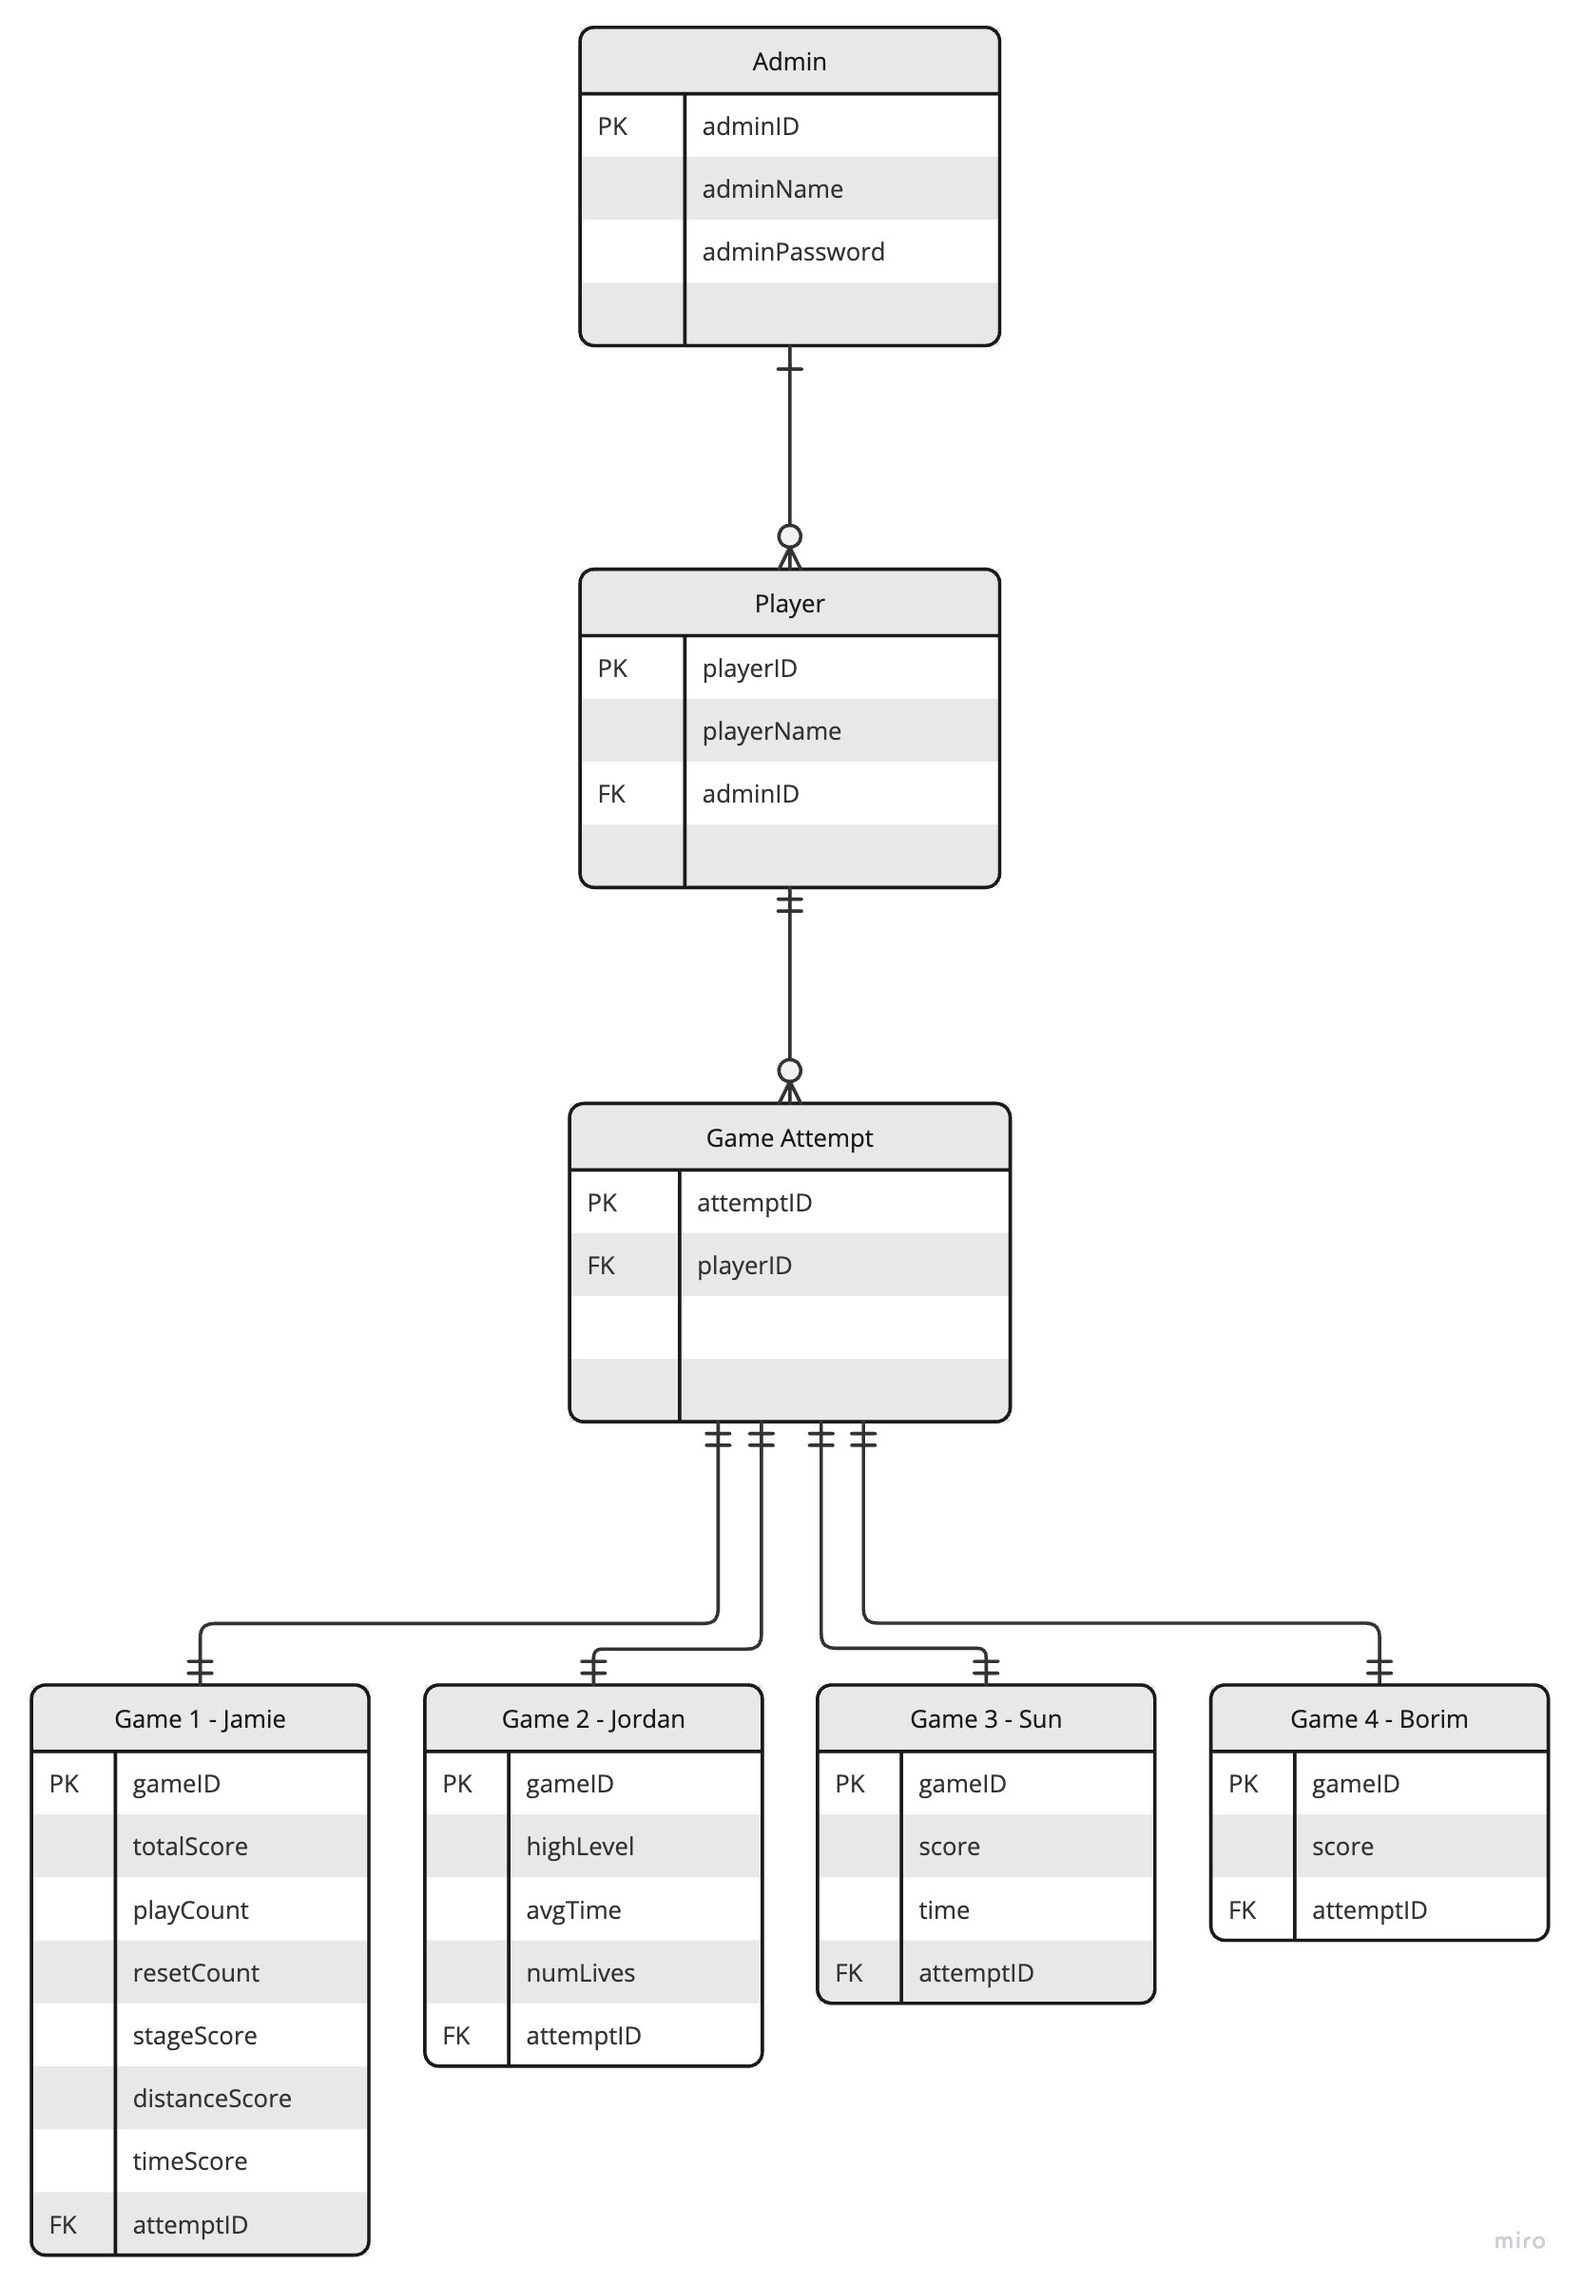
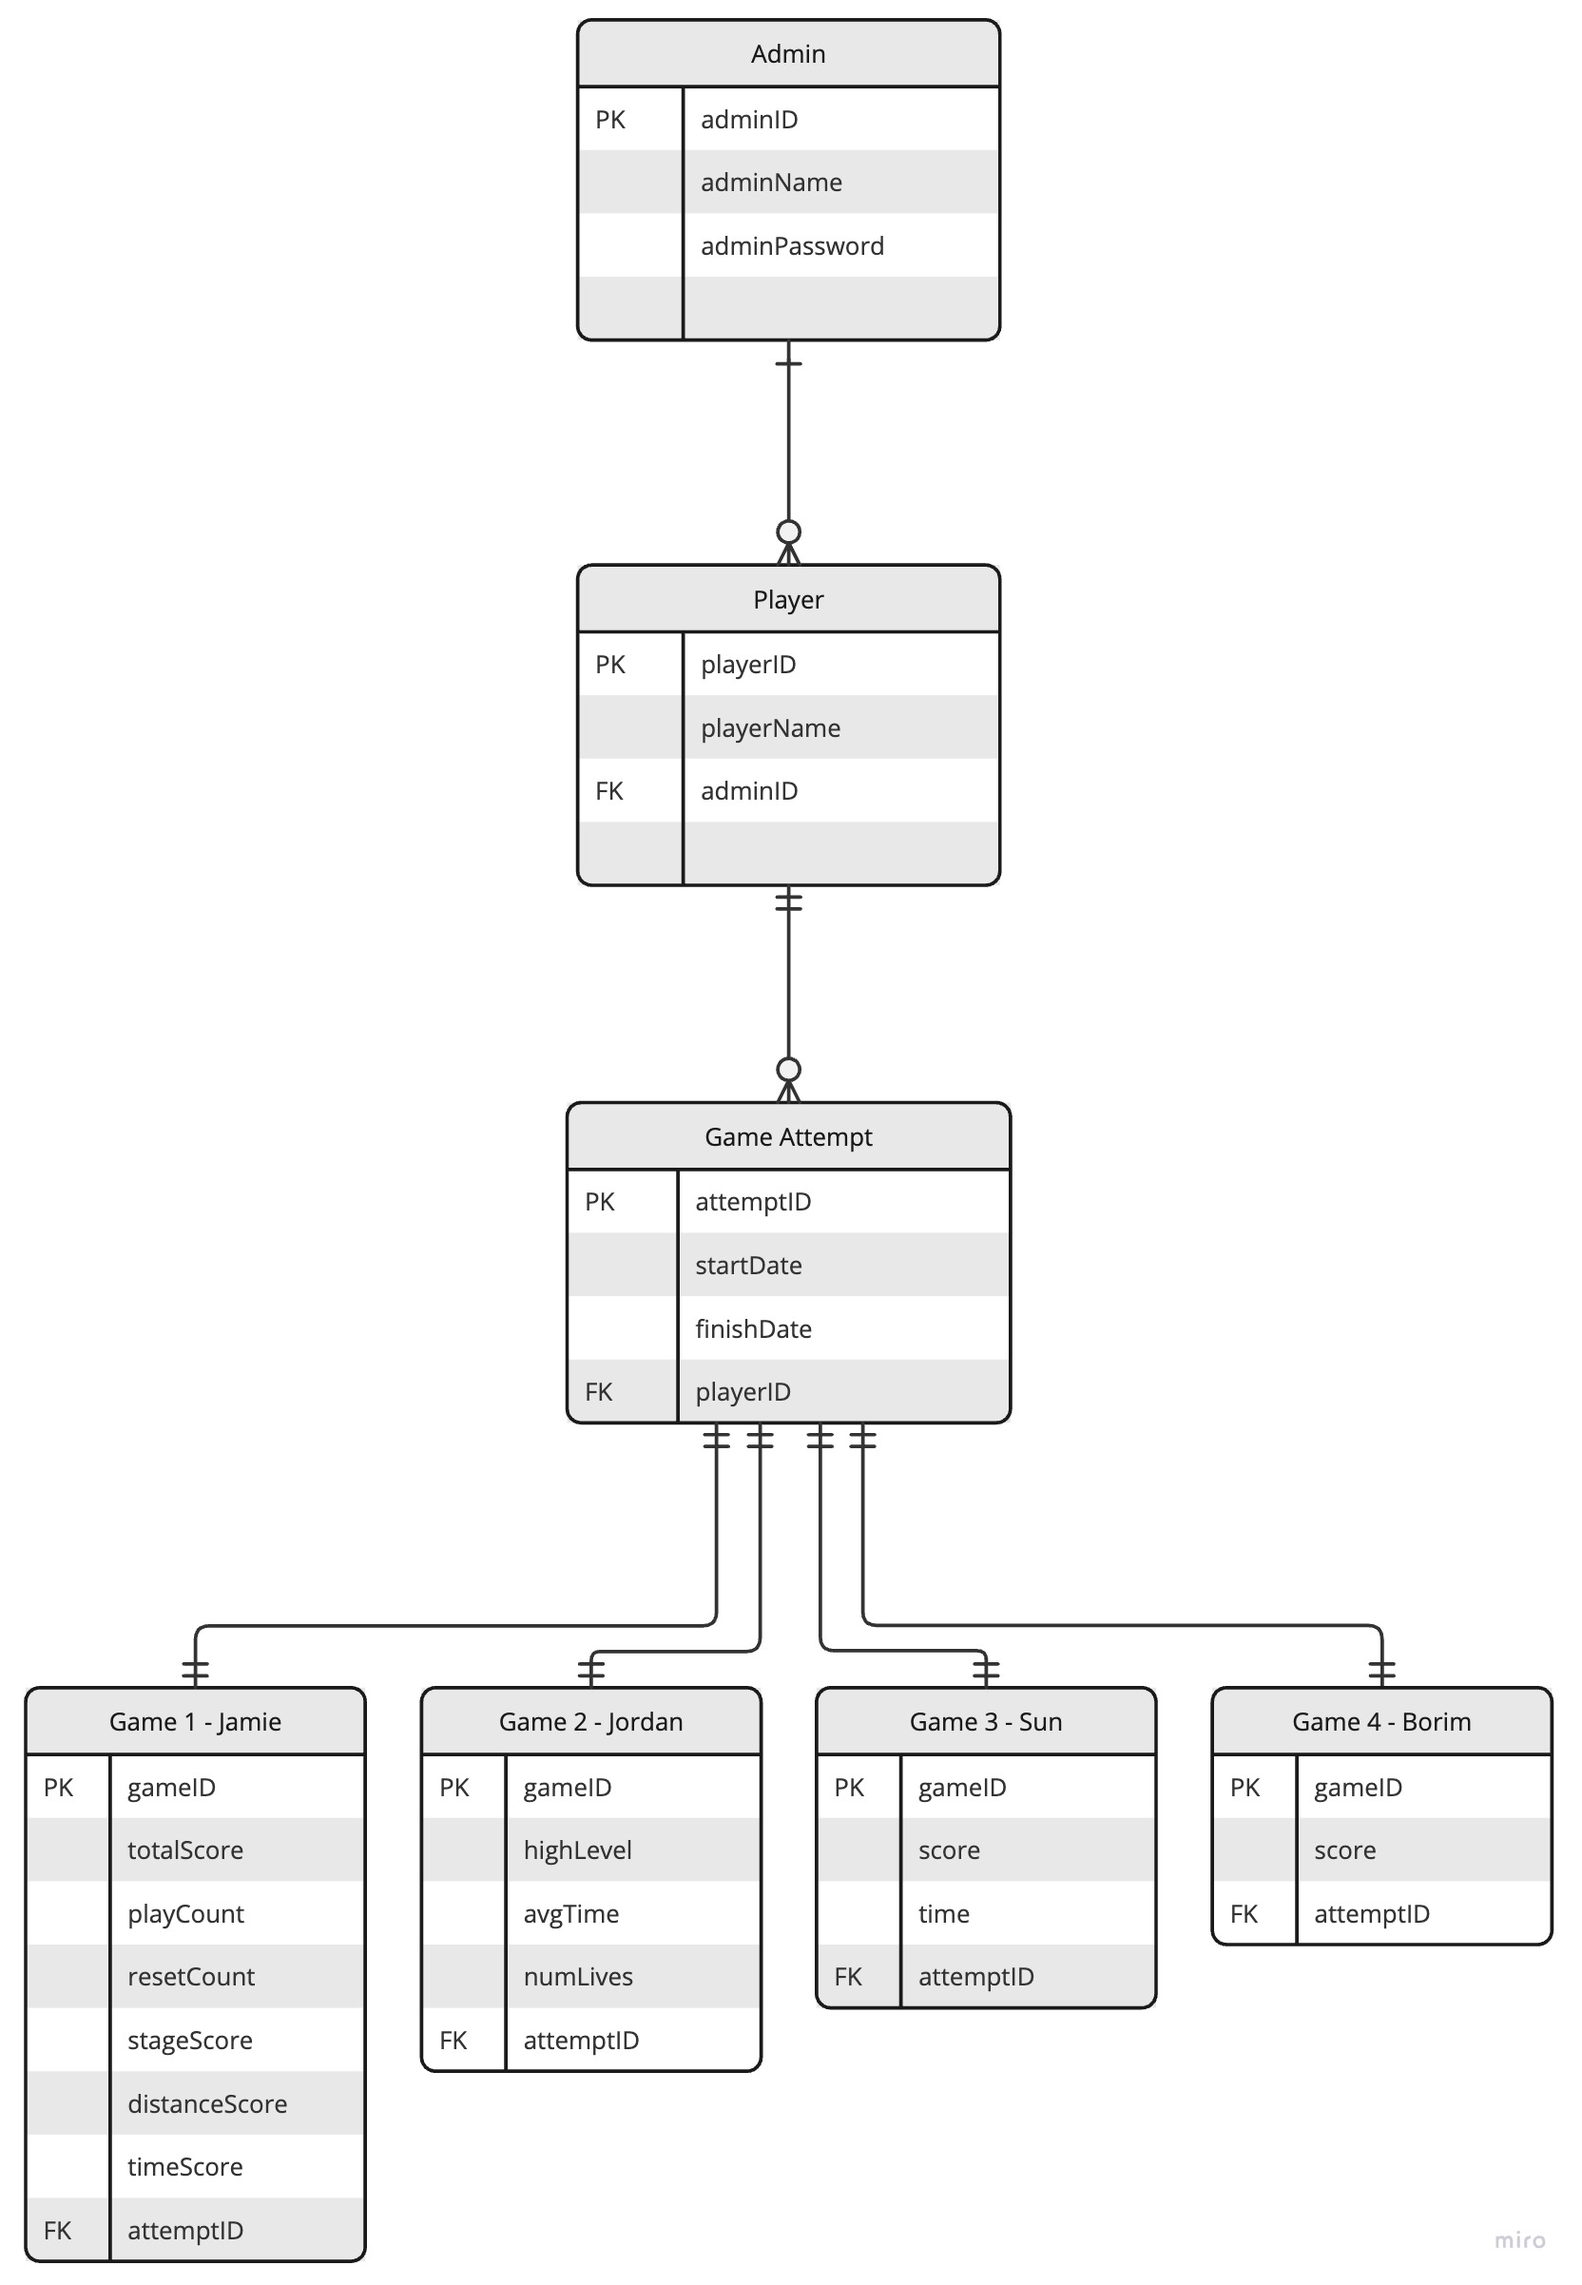
amended ER and UML diagrams, to include dates & added more methods to UML

diff --git a/database/database-design.md b/database/database-design.md
@@ -12,6 +12,8 @@ The last four tables will be used for each section of the game. So there are fou
 
 The player can play many games, but a game cannot exist without the player. There is one game for all the four sections, and the sections comprise a part of the overall game. These four sections do not know about each other, there is no need to transfer any data across sections, rather just store the information in the section table with reference to the gameID.
 
+Currently the purpose of the database is to store data after someone has completed a game. So that the data can then be used elsewhere or evalutated to find the strengths and areas to work on for the player. The game at this stage will run directly on the computers, with a sight to move it to the web and scale up the database to include real time information and so that the game will use the databse rather than session memory - incase something happens before it is able to commit to the database.
+
 ### Future Implementation
 There could be an opportunity to include a teacher/admin class, allowing the teacher to access all data from the players in a simplified format - only seeing overviews.
 
@@ -76,7 +78,7 @@ Jamie's game has three variables that will need to be stored by the database. Th
 The game already has functions to collect the information above, the database just needs to store them. 
 
 #### Section 2 (Developed by Jordan)
-Jordan's game has a few more variables that will need to be collected and sotred in the database, they differ to Jamie's game.
+Jordan's game has a few more variables that will need to be collected and stored in the database, they differ to Jamie's game.
 
 - time:dbl
     - time taken to solve the puzzle.
